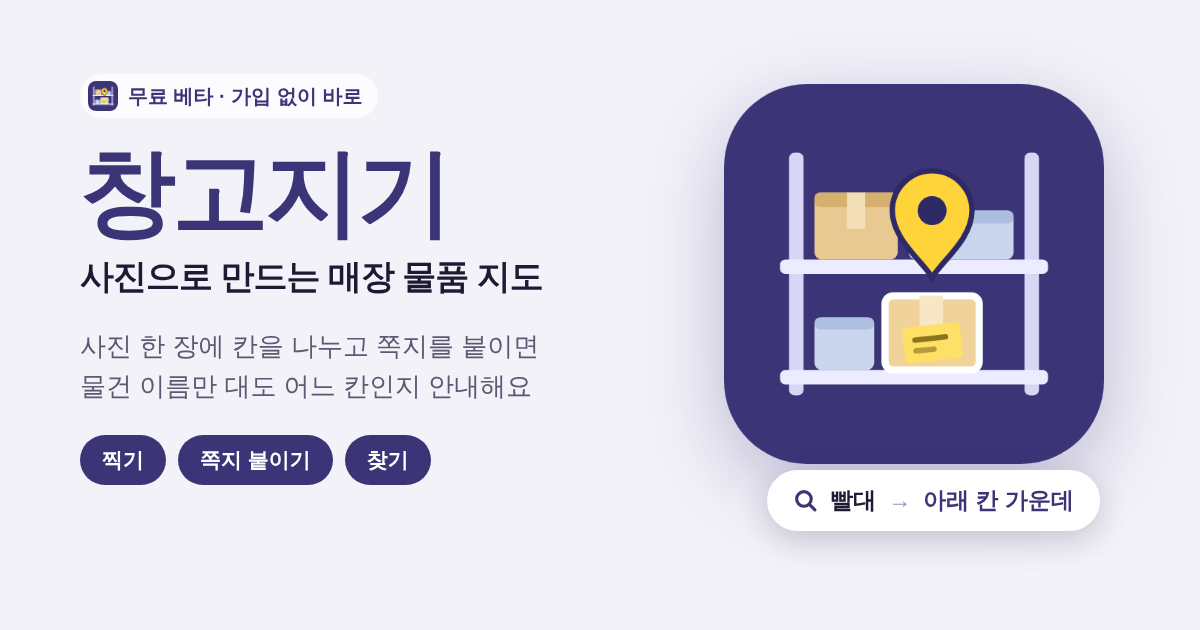
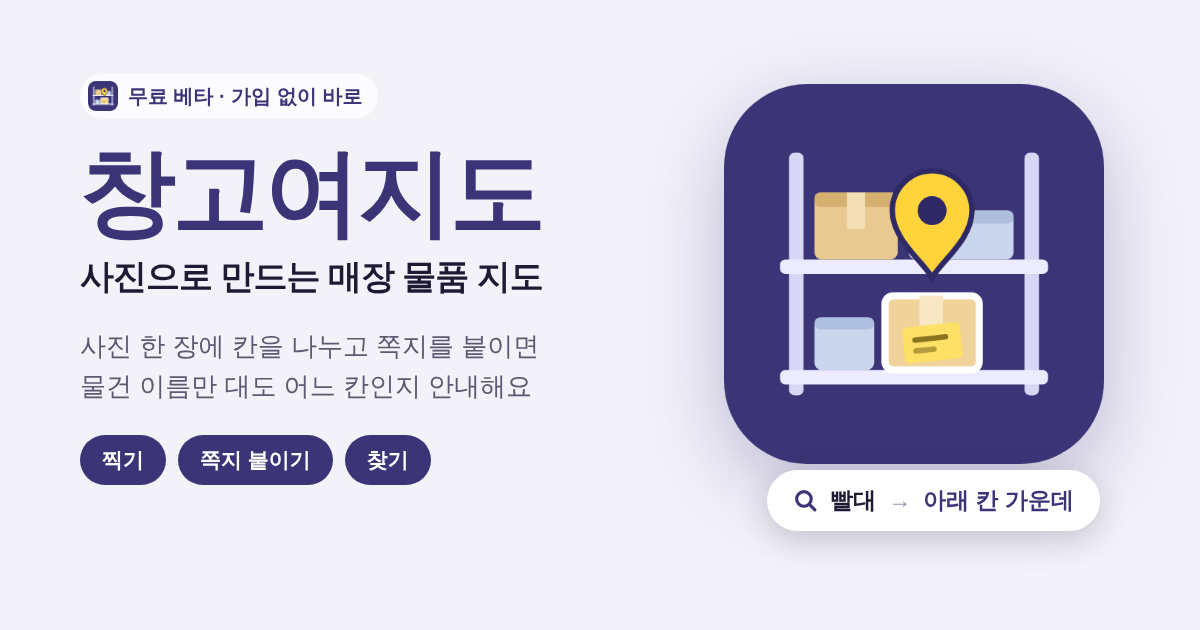
이름을 창고여지도로 (서브타이틀: 사진으로 만드는 매장 물품 지도) (#121)
- tools/rename_app.py 창고여지도: 앱 이름·탭 제목·공유 글·설치 이름
- 영문 표기·대동여지도 선 무늬는 넣지 않고 화면은 지금처럼 깔끔하게
- 공유 미리보기 이미지 창고여지도로 (og v=15)

Claude-Session: https://claude.ai/code/session_01YLzJYaCSw3RBoKxVptiud9

Changed region(s): [[0.3083, 0.2413, 0.4625, 0.3921], [0.2158, 0.2413, 0.2775, 0.3619]]

diff --git a/index.html b/index.html
@@ -9,13 +9,13 @@
     <link rel="icon" type="image/png" sizes="192x192" href="icon-192.png?v=7">
     <meta name="mobile-web-app-capable" content="yes">
     <meta name="apple-mobile-web-app-capable" content="yes">
-    <meta name="apple-mobile-web-app-title" content="창고지기">
+    <meta name="apple-mobile-web-app-title" content="창고여지도">
     <meta name="apple-mobile-web-app-status-bar-style" content="default">
     <script>
         // ✏ 서비스 이름: 앱 화면 글자·공유·백업/인쇄 파일 이름·인쇄물은 모두 이 한 곳을 쓴다.
         //   이름을 바꿀 땐 python3 tools/rename_app.py 새이름 → 이 줄과 아래 <head>의 제목·공유 미리보기 글, manifest까지 한 번에 바뀐다.
         //   (검색·카톡 미리보기는 스크립트를 실행하지 않고 <head> 글자를 그대로 읽어서, 그쪽은 글자로 따로 적혀 있어야 한다)
-        const APP_NAME = '창고지기';
+        const APP_NAME = '창고여지도';
         const APP_NAME_EN = ''; // 영문 표기 (정해지면 넣기, 비우면 첫 화면에서 숨김)
         // 이름 뒤 조사: 받침 있으면 '으로/이/은/을', 없으면 '로/가/는/를' (ㄹ 받침 + 로)
         function josa(word, withBatchim, without) {
@@ -36,18 +36,18 @@
     <link rel="preconnect" href="https://cdn.jsdelivr.net" crossorigin>
     <link rel="stylesheet" href="https://cdn.jsdelivr.net/npm/@tabler/icons-webfont@latest/dist/tabler-icons.min.css" media="print" onload="this.media='all'">
     <noscript><link rel="stylesheet" href="https://cdn.jsdelivr.net/npm/@tabler/icons-webfont@latest/dist/tabler-icons.min.css"></noscript>
-    <title>창고지기 - 사진으로 만드는 매장 물품 지도</title>
+    <title>창고여지도 - 사진으로 만드는 매장 물품 지도</title>
     <!-- 카톡·SNS 링크 미리보기 (이미지 주소는 반드시 전체 주소여야 카톡이 읽는다) -->
     <meta name="description" content="선반 사진을 구역으로 나누고 물건을 적으면, 검색 한 번으로 위치를 찾아요. A4로 뽑아 벽에 붙일 수도 있어요.">
     <meta property="og:type" content="website">
-    <meta property="og:site_name" content="창고지기">
-    <meta property="og:title" content="창고지기 - 사진으로 만드는 매장 물품 지도">
+    <meta property="og:site_name" content="창고여지도">
+    <meta property="og:title" content="창고여지도 - 사진으로 만드는 매장 물품 지도">
     <meta property="og:description" content="선반 사진을 구역으로 나누고 물건을 적으면, 검색 한 번으로 위치를 찾아요.">
     <meta property="og:url" content="https://trafficjourney.github.io/udigo/">
-    <meta property="og:image" content="https://trafficjourney.github.io/udigo/og-image.png?v=14">
+    <meta property="og:image" content="https://trafficjourney.github.io/udigo/og-image.png?v=15">
     <meta property="og:image:width" content="1200">
     <meta property="og:image:height" content="630">
-    <meta property="og:image:alt" content="창고지기: 사진으로 만드는 매장 물품 지도. 선반 위 찾는 상자에 노란 쪽지와 위치 핀이 있는 앱 아이콘, 아래에 '빨대 → 아래 칸 가운데' 검색 결과">
+    <meta property="og:image:alt" content="창고여지도: 사진으로 만드는 매장 물품 지도. 선반 위 찾는 상자에 노란 쪽지와 위치 핀이 있는 앱 아이콘, 아래에 '빨대 → 아래 칸 가운데' 검색 결과">
     <meta property="og:locale" content="ko_KR">
     <meta name="twitter:card" content="summary_large_image">
     <style>
@@ -1039,7 +1039,7 @@
         .welcome-beta { text-align: center; margin-bottom: 8px; }
         /* 첫 화면 이름 줄 */
         .welcome-brand { display: flex; flex-direction: column; align-items: center; gap: 2px; margin: 0 0 12px; }
-        .welcome-brand-name { display: flex; flex-direction: column; align-items: center; gap: 1px; } /* 창고지기가 가운데서 주인공, 영문은 아래에 작게 */
+        .welcome-brand-name { display: flex; flex-direction: column; align-items: center; gap: 1px; } /* 창고여지도가 가운데서 주인공, 영문은 아래에 작게 */
         .welcome-brand b { font-size: 22px; font-weight: 900; color: var(--accent-text); letter-spacing: -0.6px; }
         .welcome-brand .welcome-en { font-size: 11px; font-weight: 700; color: var(--text3); letter-spacing: 1.2px; text-transform: uppercase; }
         .welcome-brand span { font-size: 13px; font-weight: 600; color: var(--text2); }
@@ -1479,7 +1479,7 @@
 </div>
 
 <div id="guideModal" style="display:none; line-height: 1.6;">
-    <h2 style="text-align: center; color: var(--accent-text); margin-bottom: 16px; font-size: 1.25em;"><span data-app-name>창고지기</span> 사용법</h2>
+    <h2 style="text-align: center; color: var(--accent-text); margin-bottom: 16px; font-size: 1.25em;"><span data-app-name>창고여지도</span> 사용법</h2>
     <div style="background: var(--bg); border: 1px solid var(--border); padding: 16px; border-radius: 8px; margin-bottom: 16px;">
         <ol class="guide-steps">
             <li><i class="ti ti-camera"></i><div><b>사진 올리고 구역 만들기</b><span>사진 가운데 <b>[AI로 구역 찾기]</b>를 누르거나, <b>[직접 그리기]</b>로 사진 위를 끌어 구역을 만들어요. 나중에 고치려면 오른쪽 아래 <b>[구역 고치기]</b>.</span><small>AI로 찾을 때 사진만 외부 AI 서버로 보내져요.</small></div></li>
@@ -1607,7 +1607,7 @@
 
 <div class="search-bar">
     <div class="app-brand" style="display: flex; align-items: center;">
-        <button type="button" class="brand-home" onclick="openWelcomeRevisit()" title="첫 화면 보기"><i class="ti ti-box" style="margin-right: 6px;"></i><span data-app-name>창고지기</span><span class="beta-badge">베타</span></button>
+        <button type="button" class="brand-home" onclick="openWelcomeRevisit()" title="첫 화면 보기"><i class="ti ti-box" style="margin-right: 6px;"></i><span data-app-name>창고여지도</span><span class="beta-badge">베타</span></button>
         <button onclick="openVideoGuideModal()" style="background: none; border: none; padding: 0; margin-left: 8px; cursor: pointer; color: #e09b3a; display: flex; align-items: center;" title="사용방법 가이드">
             <i class="ti ti-bulb" style="font-size: 18px; transition: color 0.2s;"></i>
         </button>
@@ -1695,7 +1695,7 @@
             </g>
             <g class="welcome-hero-pin"><path d="M119 36 a12 12 0 1 1 24 0 c0 9 -12 20 -12 20 s-12 -11 -12 -20z" fill="var(--accent)"/><circle cx="131" cy="35" r="4.5" fill="var(--on-accent)"/></g>
         </svg>
-        <div class="welcome-brand"><div class="welcome-brand-name"><b data-app-name>창고지기</b><small class="welcome-en" data-app-name-en hidden></small></div></div>
+        <div class="welcome-brand"><div class="welcome-brand-name"><b data-app-name>창고여지도</b><small class="welcome-en" data-app-name-en hidden></small></div></div>
         <h2 class="welcome-title">사진 한 장이<br>창고 지도가 돼요</h2>
         <!-- 포스트잇과 다른 점: 선반 앞에 가지 않아도 물건 이름으로 자리를 찾는다 (넣을 때도, 꺼낼 때도) -->
         <p class="welcome-sub">물건 이름만 대면 어느 칸인지 안내해요</p>
@@ -2021,7 +2021,7 @@
     <a id="promoRow" class="settings-row promo-row" href="https://forms.gle/Yf3eGxW8N1i8fh6L8" target="_blank" rel="noopener" hidden><i class="ti ti-gift"></i> 무료 방문 세팅 <small style="margin-left: auto; color: var(--text3); font-weight: 400;">10/31까지 · 다산·구리</small></a>
             <button id="installAppRow" class="settings-row" onclick="installApp()"><i class="ti ti-device-mobile"></i> 홈 화면에 앱으로 설치</button>
             <button class="settings-row" onclick="closeSettingsModal(); document.getElementById('guideModal').style.setProperty('display', 'block', 'important');"><i class="ti ti-help-circle"></i> 사용법 다시 보기</button>
-            <button class="settings-row" onclick="shareApp()"><i class="ti ti-share"></i> <span data-app-name>창고지기</span> 알려주기</button>
+            <button class="settings-row" onclick="shareApp()"><i class="ti ti-share"></i> <span data-app-name>창고여지도</span> 알려주기</button>
             <button class="settings-row" onclick="openFeedbackForm()"><i class="ti ti-message-2"></i> 의견 보내기</button>
             <button id="contactRow" class="settings-row" onclick="openContact()" hidden><i class="ti ti-headset"></i> 문의하기 <small id="contactText" style="margin-left: auto; color: var(--text3); font-weight: 400;"></small></button>
         </div>
